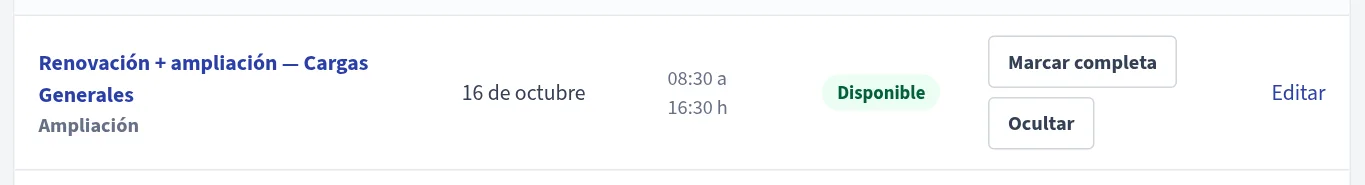
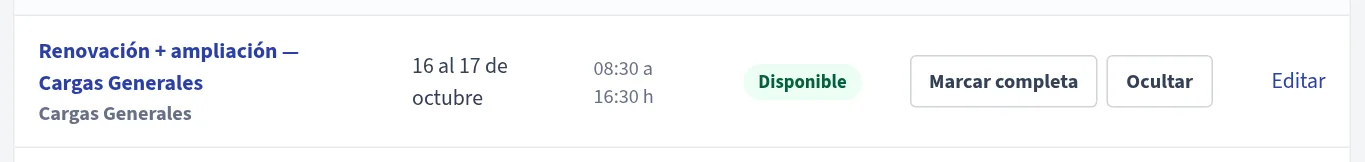
Rehacer las capturas del manual y actualizar el README
El manual queda en siete capítulos, con las pantallas nuevas de Fechas.
Los datos de ejemplo muestran siempre los tres estados de una fecha.

diff --git a/templates/panel/ayuda/04_fechas.html b/templates/panel/ayuda/04_fechas.html
@@ -10,7 +10,7 @@
   </p>
 
   <h3>La lista de fechas</h3>
-  {% include "panel/ayuda/_captura.html" with archivo="fechas" ancho=1800 alto=1200 pie="La lista de fechas próximas." %}
+  {% include "panel/ayuda/_captura.html" with archivo="fechas" ancho=1800 alto=1268 pie="La lista de fechas próximas." %}
   <ul class="manual__lista">
     <li>La pestaña <strong>Próximas</strong> muestra las fechas de hoy en adelante, siempre ordenadas por día. <strong>Pasadas</strong> guarda las que ya ocurrieron.</li>
     <li>Podés buscar por el nombre del curso.</li>
@@ -25,7 +25,7 @@
     <li>El horario y el lugar son opcionales. Si dejás el lugar vacío, se usa la sede cargada en Configuración.</li>
     <li>Tocá <strong>Guardar fecha</strong>. Aparece sola en la web, como «Disponible».</li>
   </ol>
-  {% include "panel/ayuda/_captura.html" with archivo="fecha-nueva" ancho=1800 alto=1500 pie="El formulario de una fecha nueva." %}
+  {% include "panel/ayuda/_captura.html" with archivo="fecha-nueva" ancho=1800 alto=1611 pie="El formulario de una fecha nueva." %}
   <p class="nota">
     No importa en qué orden cargues las fechas: si agregás una entre otras dos, la web y el panel
     la ubican sola en su lugar.
@@ -49,7 +49,7 @@
     <li>Tocá <strong>Marcar completa</strong>. El estado pasa a «Completo» y la web lo muestra al instante.</li>
     <li>Si te equivocaste o se liberó un lugar, tocá <strong>Marcar disponible</strong>.</li>
   </ol>
-  {% include "panel/ayuda/_captura.html" with archivo="fecha-acciones" ancho=1300 alto=300 pie="Una fecha con sus botones para cambiar el estado." %}
+  {% include "panel/ayuda/_captura.html" with archivo="fecha-acciones" ancho=1365 alto=162 pie="Una fecha con sus botones para cambiar el estado." %}
 
   <h3>Sacar una fecha de la web</h3>
   <ul class="manual__lista">

diff --git a/templates/panel/ayuda/03_cursos.html b/templates/panel/ayuda/03_cursos.html
@@ -10,7 +10,7 @@
   </p>
 
   <h3>La lista de cursos</h3>
-  {% include "panel/ayuda/_captura.html" with archivo="cursos" ancho=1800 alto=1230 pie="El catálogo de cursos." %}
+  {% include "panel/ayuda/_captura.html" with archivo="cursos" ancho=1800 alto=1203 pie="El catálogo de cursos." %}
   <ul class="manual__lista">
     <li>Buscá por nombre o por una palabra de los requisitos, o filtrá por categoría, y tocá <strong>Filtrar</strong>. <strong>Limpiar</strong> saca los filtros.</li>
     <li>La columna <strong>Fechas</strong> cuenta cuántas tiene cargadas el curso. <strong>+ agregar fecha</strong> abre una fecha nueva con ese curso ya elegido.</li>
@@ -28,7 +28,7 @@
     <li><strong>Visibilidad</strong>: desmarcá «visible en la web» para sacarlo del sitio sin borrarlo.</li>
     <li>Tocá <strong>Guardar curso</strong>.</li>
   </ol>
-  {% include "panel/ayuda/_captura.html" with archivo="curso-editar" ancho=1800 alto=1950 pie="El formulario de un curso, dividido en secciones numeradas." %}
+  {% include "panel/ayuda/_captura.html" with archivo="curso-editar" ancho=1800 alto=2100 pie="El formulario de un curso, dividido en secciones numeradas." %}
   <p class="nota">
     <strong>Eliminar un curso</strong> sólo es posible si no tiene fechas cargadas. Para sacarlo de
     la web sin borrarlo, desactivalo.

diff --git a/templates/panel/ayuda/06_administracion.html b/templates/panel/ayuda/06_administracion.html
@@ -13,7 +13,7 @@
     La cuenta de administración técnica del sitio no figura en esta pantalla y no se puede editar
     ni eliminar desde el panel.
   </p>
-  {% include "panel/ayuda/_captura.html" with archivo="usuarios" ancho=1800 alto=1350 pie="Los usuarios del panel, agrupados por rol." %}
+  {% include "panel/ayuda/_captura.html" with archivo="usuarios" ancho=1800 alto=1200 pie="Los usuarios del panel, agrupados por rol." %}
 
   <h3>Crear un usuario</h3>
   <ol class="pasos">
@@ -31,7 +31,7 @@
     <li><strong>Eliminar</strong>: al pie de la pantalla de edición está <strong>Eliminar este usuario</strong>. No se puede deshacer. No aparece al editar tu propio usuario.</li>
     <li>Si aparece el aviso de usuarios <strong>sin rol asignado</strong>, esos usuarios no pueden entrar al panel hasta que les des uno con «Asignar rol →».</li>
   </ul>
-  {% include "panel/ayuda/_captura.html" with archivo="usuario-eliminar" ancho=1170 alto=311 pie="El recuadro para eliminar, al pie de la edición de un usuario." %}
+  {% include "panel/ayuda/_captura.html" with archivo="usuario-eliminar" ancho=1170 alto=281 pie="El recuadro para eliminar, al pie de la edición de un usuario." %}
 
   <h3>Configuración del sitio</h3>
   <p>

diff --git a/templates/panel/ayuda/01_ingresar.html b/templates/panel/ayuda/01_ingresar.html
@@ -22,7 +22,7 @@
     figuran tu nombre, tu rol y el botón <strong>Salir</strong>, que cierra la sesión.
   </p>
   <div class="manual__dos">
-    {% include "panel/ayuda/_captura.html" with archivo="menu" ancho=378 alto=1290 angosta=True pie="El menú, visto con el rol Dirección." %}
+    {% include "panel/ayuda/_captura.html" with archivo="menu" ancho=378 alto=1140 angosta=True pie="El menú, visto con el rol Dirección." %}
     <div class="tabla-envoltorio" style="border:0">
       <table class="tabla">
         <tbody>
@@ -55,7 +55,7 @@
 
   <h3>El Tablero</h3>
   <p>Es la primera pantalla al entrar. Muestra las fechas de hoy en adelante.</p>
-  {% include "panel/ayuda/_captura.html" with archivo="tablero" ancho=1800 alto=1470 pie="El Tablero: indicadores y próximas fechas." %}
+  {% include "panel/ayuda/_captura.html" with archivo="tablero" ancho=1800 alto=1377 pie="El Tablero: indicadores y próximas fechas." %}
   <div class="tabla-envoltorio" style="border:0">
     <table class="tabla">
       <tbody>

diff --git a/templates/panel/ayuda/02_agenda.html b/templates/panel/ayuda/02_agenda.html
@@ -7,7 +7,7 @@
     La Agenda muestra las fechas del mes en un calendario. Sirve para ver de un vistazo qué días
     están ocupados antes de subir una fecha nueva.
   </p>
-  {% include "panel/ayuda/_captura.html" with archivo="agenda" ancho=1800 alto=1332 pie="La Agenda del mes." %}
+  {% include "panel/ayuda/_captura.html" with archivo="agenda" ancho=1800 alto=1329 pie="La Agenda del mes." %}
   <ul class="manual__lista">
     <li>Cada recuadro es una fecha, ubicada en su <strong>día de inicio</strong>.</li>
     <li>El color indica el estado: <strong>verde</strong> disponible, <strong>rojo</strong> completo y <strong>gris</strong> oculta (no se ve en la web).</li>

diff --git a/panel/tests.py b/panel/tests.py
@@ -53,6 +53,13 @@ class ManualTests(TestCase):
             with self.subTest(captura=ruta):
                 self.assertIsNotNone(finders.find(ruta), f"Falta el archivo {ruta}")
 
+    def test_el_manual_no_menciona_lo_que_se_saco(self):
+        html = self._manual(JERARQUIA[0]).content.decode().lower()
+        for palabra in ("comisi", "inscrip", "participante", "asistencia", "cupo",
+                        "instructor", "informes", "recepción", "coordinación"):
+            with self.subTest(palabra=palabra):
+                self.assertNotIn(palabra, html)
+
     def test_sin_sesion_pide_ingresar(self):
         respuesta = self.client.get(reverse("panel:ayuda"))
         self.assertRedirects(

diff --git a/cursos/management/commands/cargar_datos.py b/cursos/management/commands/cargar_datos.py
@@ -324,7 +324,8 @@ class Command(BaseCommand):
                     "fecha_fin": fecha + timedelta(days=random.choice([0, 0, 1])),
                     "hora_inicio": time(8, 30),
                     "hora_fin": time(16, 30),
-                    "visible": random.random() > 0.2,
-                    "completa": random.random() > 0.7,
+                    # Fijas, para que la demo muestre siempre los tres estados.
+                    "visible": desplazamiento != 48,
+                    "completa": desplazamiento in (-25, 13),
                 },
             )

diff --git a/README.md b/README.md
@@ -1,8 +1,11 @@
 # CETACER — sitio web y panel de capacitación
 
 Sitio público y panel de administración para la Cámara Empresaria del Transporte
-Automotor de Cargas de Entre Ríos. Reemplaza el sitio actual (cetacer.com) y suma
-la gestión de cursos, fechas, inscriptos y exportación de listas de participantes.
+Automotor de Cargas de Entre Ríos. Reemplaza el sitio anterior y suma un panel
+para mantener los cursos y subir sus fechas, marcando cuáles están completas.
+
+El sitio no lleva el registro de quienes cursan: CETACER lo carga en el sistema
+nacional de la fundación.
 
 ## Puesta en marcha
 
@@ -19,8 +22,8 @@ python manage.py runserver
 - Panel: http://127.0.0.1:8000/panel/
 
 `cargar_datos` crea un usuario por rol con la contraseña `cetacer2024`
-(`direccion`, `administracion`, `coordinacion`, `recepcion`, `instructor`).
-Sin `--demo` sólo carga el catálogo y los usuarios, sin inscriptos de prueba.
+(`direccion` y `administracion`). Sin `--demo` sólo carga el catálogo y los
+usuarios, sin fechas de prueba.
 
 **Cambiá esas contraseñas antes de poner el sitio en producción.**
 
@@ -28,20 +31,20 @@ Sin `--demo` sólo carga el catálogo y los usuarios, sin inscriptos de prueba.
 
 | Comando | Para qué sirve |
 |---|---|
-| `python manage.py init_roles` | Crea o actualiza los cinco grupos con sus permisos. Es idempotente: corrélo de nuevo después de agregar modelos. |
+| `python manage.py init_roles` | Crea o actualiza los grupos de los dos roles con sus permisos. Es idempotente: corrélo de nuevo después de agregar modelos. |
 | `python manage.py cargar_datos` | Carga el catálogo real de cursos y un usuario por rol. |
-| `python manage.py cargar_datos --demo` | Suma comisiones, participantes e inscripciones de prueba. |
-| `python manage.py test` | Corre las 94 pruebas. |
+| `python manage.py cargar_datos --demo` | Suma fechas de prueba, pasadas y futuras. |
+| `python manage.py test` | Corre las pruebas. |
 
 ## Estructura
 
 ```
 config/          Configuración del proyecto
 cuentas/         Usuario propio y jerarquía de roles (grupos de Django)
-cursos/          Categorías, cursos, comisiones y configuración del sitio
+cursos/          Categorías, cursos, fechas y configuración del sitio
 contenido/       Páginas institucionales de enlaces, editables desde el panel
-inscripciones/   Empresas, participantes e inscripciones
-panel/           Panel de administración (vistas, formularios, exportaciones)
+inscripciones/   Sólo migraciones históricas: el registro de personas se eliminó
+panel/           Panel de administración (vistas y formularios)
 web/             Sitio público
 templates/       Plantillas (web/ y panel/)
 static/css/      web.css y panel.css
@@ -49,13 +52,15 @@ static/css/      web.css y panel.css
 
 ### Cómo se relacionan los datos
 
-- **Curso** — lo que se dicta: nombre, precio, requisitos. No tiene fecha.
-- **Comisión** — un dictado concreto de ese curso: fecha, horario, cupo e instructor.
-- **Participante** — la persona, identificada por DNI y reutilizada entre cursos.
-- **Inscripción** — une un participante con una comisión, con su estado y su pago.
+- **Categoría** — un bloque de la web (Cargas Generales, Mercancías Peligrosas).
+- **Curso** — lo que se dicta: nombre, precio, requisitos. No tiene día. Su
+  «nombre corto» es el texto de su botón en la web.
+- **Fecha** — un día concreto en que se dicta ese curso. En el código es el
+  modelo `Comision`; el nombre quedó de cuando además llevaba cupo e inscriptos.
 
-Separar curso de comisión es lo que permite repetir el mismo curso todos los meses
-sin volver a cargar precio ni requisitos, y tener el historial de quién cursó qué.
+Cada fecha tiene dos casillas: **visible en la web** y **completo**. La web la
+muestra como «Disponible» hasta que se marca completa, y deja de mostrarla sola
+cuando pasa su día de inicio.
 
 ## Jerarquía de usuarios
 
@@ -65,28 +70,7 @@ Se apoya en los grupos nativos de Django. La matriz de permisos vive en
 | Rol | Alcance |
 |---|---|
 | Dirección | Todo, incluidos usuarios y configuración del sitio. |
-| Administración | Catálogo completo, precios, comisiones, inscripciones y exportaciones. |
-| Coordinación | Comisiones, instructores e inscripciones. No toca precios ni usuarios. |
-| Recepción | Carga participantes, toma inscripciones y descarga listas. |
-| Instructor | Sólo sus comisiones asignadas, para tomar asistencia. |
-
-Un instructor no ve las comisiones de otros: la consulta se filtra en
-`panel/accesos.py::comisiones_visibles`.
-
-## Exportaciones
-
-Todas salen en Excel (.xlsx) y en CSV, y siempre respetan los filtros que haya
-puestos en pantalla.
-
-- **Lista de participantes de una comisión** — con encabezado institucional, curso,
-  fecha, lugar y cupo.
-- **Planilla de firmas** — la misma lista con columnas en blanco para firmar el día
-  del curso.
-- **Listado general de inscripciones** — con filtros por curso, estado, pago y fechas.
-- **Padrón de participantes** — una fila por persona, con la cantidad de cursos hechos.
-
-El CSV se genera con punto y coma y un único BOM para que Excel en español lo abra
-bien al hacer doble clic.
+| Administración | Cursos, categorías, fechas y páginas. |
 
 ## Páginas de contenido
 
